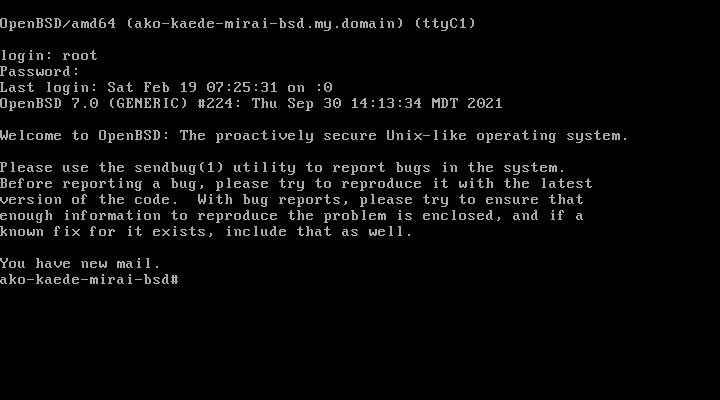
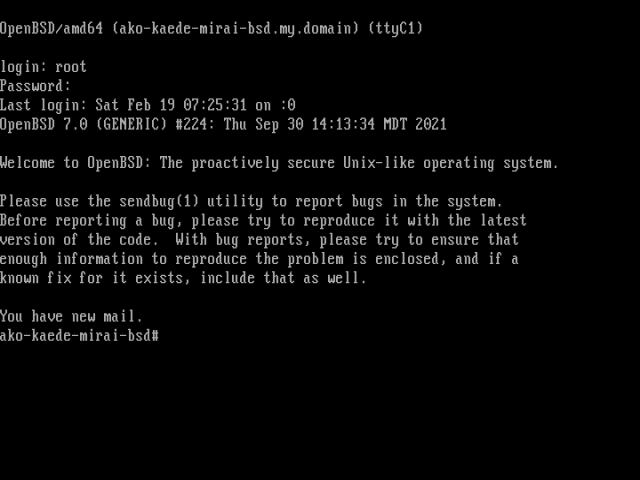
Aspect ratio corrections for older systems, update README.md

diff --git a/README.md b/README.md
@@ -15,7 +15,7 @@ Options are stored in [`images/`](https://github.com/dill/lexknowssystems/tree/m
 If I am using your image and you don't want it to be used any more, send a pull request.
 
 If you have an image you'd like me to use, send a pull request :) Please try to:
-  * keep images at about the right aspect ratio (see existing images)
+  * keep images at about the right aspect ratio (see existing images) and apply [aspect ratio correction](https://www.gamedeveloper.com/business/no-ms-dos-games-weren-t-widescreen-tips-on-correcting-aspect-ratio) for older systems
   * have them be of an operating system
   * not have them contain copyrighted/inappropriate content
   * name your file with underscores where spaces should be, this will be what's in the subtitle (minus path and extension)
